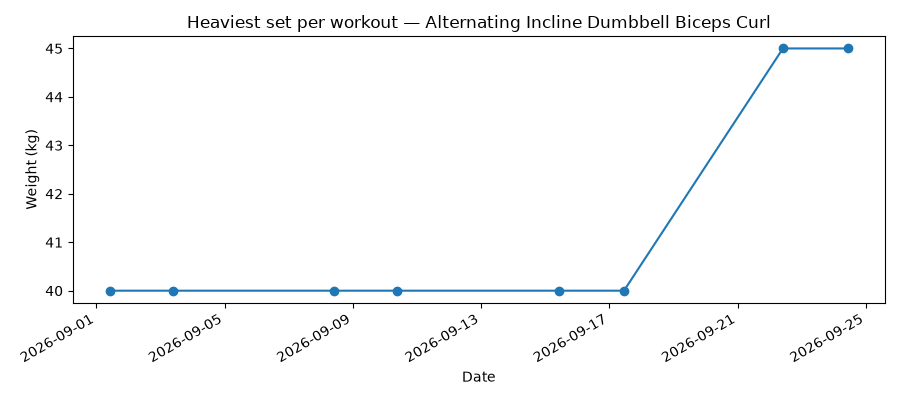
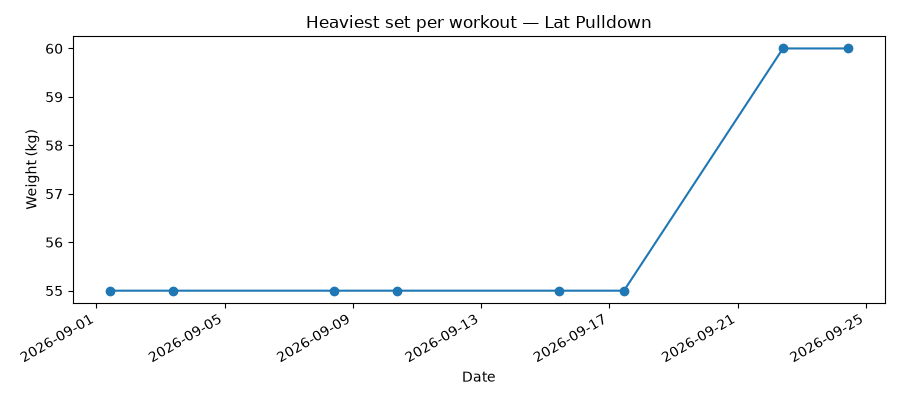
Update the strength-training docs and report script for the corrected exercise names (D53, F107)
The corrected sample database landed in the previous commit; this makes the page and the script
describe it truthfully again, and adds the per-exercise table F107 asked for.

DOCS (docs/strength-training.md)
- Metrics block regenerated. Distinct exercises 14 -> 20, biggest exercise is now Lat Pulldown
  (15,750 kg) rather than Alternating Incline Dumbbell Biceps Curl, an exercise that was never
  performed. The "Sets with no exercise recorded" line is gone because there are none left.
- Adds the per-exercise table: exercise, sets per workout, reps, weight, in the order performed.
  Every session replays the same routine, so these are exact rather than averages.
- "Where the exercise names come from" is rewritten rather than deleted. It was built around
  explaining why 39% of sets had no exercise, which is now zero. The COALESCE fallback is still
  real and still worth explaining, so the section now says the last branch is empty HERE and very
  likely is not in the reader's own data, and points at Curl, Shrug and Push Up as the live
  examples of the middle branch.
- Corrects an overstated claim about locales. The page said the script prints French or German
  exercise names; in fact Garmin's per-exercise subtype names are largely untranslated, and only
  two of the twenty change in French, both category-level. Shows what actually happens instead.
- Extends the closing caveat: Garmin Connect edits not reaching the FIT file applies to the
[…]

diff --git a/reports/strength_training_report.py b/reports/strength_training_report.py
@@ -50,24 +50,27 @@ def load_sets(conn: sqlite3.Connection, locale: str = "en") -> pd.DataFrame:
     """Every set, with its exercise name resolved to readable text.
 
     A SetX row identifies its exercise with two Garmin codes: a category
-    (`raw_category_garmin_key`, e.g. "7") and a more specific subtype
-    (`raw_category_subtype_garmin_key`, e.g. "7 2"). Both are keys into
+    (`raw_category_garmin_key`, e.g. "23") and a more specific subtype
+    (`raw_category_subtype_garmin_key`, e.g. "23 18"). Both are keys into
     better_labels_definitions under the `setx_category` domain, and
     better_labels_lookup turns a definition into text for one locale.
 
-    Prefer the subtype, which names the actual movement ("Alternating Incline
-    Dumbbell Biceps Curl"); fall back to the category ("Curl") when a watch
-    recorded only that; fall back again to "Unspecified" when it recorded
-    neither, which is common for sets logged without an exercise selected.
+    Prefer the subtype, which names the actual movement ("Seated Cable Row");
+    fall back to the category ("Row") when a watch recorded only that — the
+    example database's Curl, Shrug and Push Up sets are exactly that case; fall
+    back again to "Unspecified" when it recorded neither, which happens for sets
+    logged without an exercise selected.
     """
     return pd.read_sql_query(
         """
         SELECT s.file_number,
                s.Timestamp,
+               s.message_index,
                s.Duration          AS duration_s,
                s.Repetitions       AS reps,
                s.Weight            AS weight_kg,
                COALESCE(subtype_label.value, category_label.value, 'Unspecified') AS exercise,
+               s.set_type                                                         AS set_type_id,
                COALESCE(set_type_label.value, 'Unknown')                          AS set_type
         FROM SetX s
         LEFT JOIN better_labels_definitions category_def
@@ -96,18 +99,33 @@ def load_sets(conn: sqlite3.Connection, locale: str = "en") -> pd.DataFrame:
     )
 
 
+# FIT's own set_type enum: 0 is a rest period, 1 is a work set.
+SET_TYPE_ACTIVE = 1
+
+
 def working_sets(sets: pd.DataFrame) -> pd.DataFrame:
-    """Just the sets you lifted in — the rest periods between them are also SetX rows."""
-    return sets[sets["set_type"] == "Active"]
+    """Just the sets you lifted in — the rest periods between them are also SetX rows.
+
+    Filters on the raw FIT enum, not on `set_type`'s display text. The text is
+    translated like every other better_labels value, so matching it against
+    "Active" silently discarded every set under --locale fr ("Actif") or de
+    ("Aktiv"), leaving a report of zero working sets.
+    """
+    return sets[sets["set_type_id"] == SET_TYPE_ACTIVE]
 
 
 def named_sets(sets: pd.DataFrame) -> pd.DataFrame:
     """Sets whose exercise the watch actually recorded.
 
-    A large share of real sets carry no exercise code — the watch counted reps
-    but nothing said what movement they were. Those sets are real work and stay
-    in the totals, but they can't be charted per exercise, so the per-exercise
-    plots use this subset instead.
+    A set can carry no exercise code at all — the watch counted reps, but
+    nothing said what movement they were. Those sets are real work and stay in
+    the totals, but they can't be charted per exercise, so the per-exercise
+    plots and the breakdown table use this subset instead.
+
+    The bundled example database has none of them, so this filter passes
+    everything through there. Your own data very likely does have some: it
+    happens whenever a set is logged without an exercise selected. The
+    "Sets with no exercise recorded" line in the summary tells you how many.
     """
     return sets[sets["exercise"] != "Unspecified"]
 
@@ -148,6 +166,70 @@ def print_summary(sessions: pd.DataFrame, sets: pd.DataFrame, all_sets: pd.DataF
             f"Sets with no exercise recorded: {unnamed} of {len(sets)} ({share:.0f}%)"
             " — counted in the totals above, left out of the per-exercise plots"
         )
+
+
+def exercise_breakdown(sets: pd.DataFrame, n_workouts: int) -> pd.DataFrame:
+    """One row per exercise: how many sets, at what reps, at what weight.
+
+    Ordered by first appearance, so the table reads in the order the workout is
+    actually performed. That is deliberately a different question from the
+    top-exercises plot's "what moved the most weight" — this one answers "what
+    is the routine".
+
+    Order comes from `message_index`, the set's own position in the file, NOT
+    from `Timestamp`: a SetX row's Timestamp is the session's timestamp repeated
+    on every row of that session, so it is identical for all 101 rows and sorts
+    nothing. (`start_time` is the per-set time, if you need a real clock value.)
+
+    Sets are reported per workout rather than as a raw total, since that is the
+    figure you'd compare against a training plan. It is a mean: if you did three
+    sets of an exercise in one workout and four in another, it reads 3.5.
+    """
+    named = named_sets(sets)
+    grouped = named.groupby("exercise")
+    table = pd.DataFrame(
+        {
+            "first_performed": grouped["message_index"].min(),
+            "sets": grouped.size(),
+            "reps_low": grouped["reps"].min(),
+            "reps_high": grouped["reps"].max(),
+            "weight_low": grouped["weight_kg"].min(),
+            "weight_high": grouped["weight_kg"].max(),
+        }
+    ).sort_values("first_performed")
+    table["sets_per_workout"] = table["sets"] / n_workouts
+    return table
+
+
+def _range_text(low: float, high: float, suffix: str = "") -> str:
+    """"10" for a single value, "10-12" for a range — no false precision either way."""
+    if low == high:
+        return f"{low:.0f}{suffix}"
+    return f"{low:.0f}-{high:.0f}{suffix}"
+
+
+def print_exercise_breakdown(sets: pd.DataFrame, sessions: pd.DataFrame) -> None:
+    table = exercise_breakdown(sets, len(sessions))
+    if table.empty:
+        return
+
+    name_width = max(len("Exercise"), *(len(name) for name in table.index))
+    print()
+    print(f"Per exercise, in the order performed, across {len(sessions)} workouts:")
+    print()
+    print(f"  {'Exercise':<{name_width}}  {'Sets/workout':>12}  {'Reps':>7}  Weight")
+    for exercise, row in table.iterrows():
+        per_workout = row["sets_per_workout"]
+        sets_text = f"{per_workout:.0f}" if float(per_workout).is_integer() else f"{per_workout:.1f}"
+        reps_text = _range_text(row["reps_low"], row["reps_high"])
+        # Weight 0 covers both genuine bodyweight work and sets a device records
+        # without a weight at all; the FIT file doesn't distinguish them, so
+        # neither does this.
+        if row["weight_high"] == 0:
+            weight_text = "none recorded"
+        else:
+            weight_text = _range_text(row["weight_low"], row["weight_high"], " kg")
+        print(f"  {exercise:<{name_width}}  {sets_text:>12}  {reps_text:>7}  {weight_text}")
 
 
 def plot_volume_per_session(per_session: pd.DataFrame, out_path: Path) -> None:
@@ -235,6 +317,7 @@ def main() -> None:
         sets = add_volume(working_sets(all_sets))
 
         print_summary(sessions, sets, all_sets)
+        print_exercise_breakdown(sets, sessions)
 
         plot_volume_per_session(volume_per_session(sets, sessions), args.out_dir / "volume_per_session.png")
         plot_top_exercises(sets, args.out_dir / "top_exercises_by_volume.png")

diff --git a/docs/strength-training.md b/docs/strength-training.md
@@ -43,10 +43,46 @@ Total volume:        86,040 kg
 Heaviest set:        60 kg
 Average workout:     51 min
 Average heart rate:  126 bpm
-Distinct exercises:  14
-Biggest exercise:    Alternating Incline Dumbbell Biceps Curl (11,370 kg)
-Sets with no exercise recorded: 160 of 408 (39%) — counted in the totals above, left out of the per-exercise plots
+Distinct exercises:  20
+Biggest exercise:    Lat Pulldown (15,750 kg)
 ```
+
+And the routine itself — every session replays the same one, so these are exact, not averages:
+
+```
+Per exercise, in the order performed, across 8 workouts:
+
+  Exercise                         Sets/workout     Reps  Weight
+  Weighted Crunch                             3     8-11  15-20 kg
+  Curl                                        3    10-11  40-45 kg
+  Shrug                                       3     8-11  15-20 kg
+  Overhead Barbell Press                      3       10  15-20 kg
+  Chest Supported Dumbbell Row                3     9-11  40-45 kg
+  Weighted Leg Extensions                     3       10  20-25 kg
+  Seated Cable Row                            3    10-11  50-55 kg
+  Lat Pulldown                                3    11-12  55-60 kg
+  Elbow To Knee Crunch                        3       10  none recorded
+  Weighted Balancing Squat                    3        9  20-25 kg
+  Stretch Lying It Band                       3     9-11  10-15 kg
+  Glute Bridge                                3     6-11  25-30 kg
+  Chin Up                                     3     9-10  none recorded
+  Push Up                                     4     6-10  none recorded
+  Weighted Standing Hip Abduction             3      6-9  40-45 kg
+  Stretch Shoulder                            1        1  none recorded
+  Hamstring Stretch                           1        1  none recorded
+  Stretch Side                                1        2  none recorded
+  Groiners                                    1        1  none recorded
+  Stretch Forearms                            1        2  none recorded
+```
+
+Three of those carry a category code but no more specific subtype, so they show as the broad
+movement rather than a named variant: **Curl**, **Shrug** and **Push Up**. That's the `COALESCE`
+fallback described below, visible in the output.
+
+"None recorded" is weight 0, which covers two things the FIT file can't tell apart: genuine
+bodyweight work (chin-ups, push-ups, the crunches) and the closing stretches, which Garmin Connect
+displays as "--" rather than "Bodyweight". Weight ranges span a real progressive-overload step —
+the last two sessions add 5 kg to every already-weighted set.
 
 Volume — reps × weight — totalled for each workout:
 
@@ -56,9 +92,9 @@ The exercises that contributed the most of that volume:
 
 ![The eight exercises contributing the most volume](strength-training-top-exercises.png)
 
-And progression for the biggest one, the heaviest set recorded in each workout:
+And progression for the biggest one by volume, the heaviest set recorded in each workout:
 
-![Heaviest set per workout for the alternating incline dumbbell biceps curl](strength-training-progression.png)
+![Heaviest set per workout for the lat pulldown](strength-training-progression.png)
 
 Run it yourself:
 
@@ -73,16 +109,26 @@ A `SetX` row doesn't store "Seated Cable Row". It stores two Garmin codes — a 
 (`raw_category_subtype_garmin_key`, e.g. `23 18`) — and Cordelia's `better_labels_definitions` and
 `better_labels_lookup` tables turn those into readable text. The script joins them with a
 `COALESCE` that prefers the subtype ("Seated Cable Row"), falls back to the category ("Row"), and
-falls back again to "Unspecified" when a set carries neither code, which is why 39% of the example
-sets land in that last bucket. That's realistic: a watch counts reps whether or not anyone told it
-what movement was being performed. Those sets still count toward the totals; they just can't be
-charted per exercise.
+falls back again to "Unspecified" when a set carries neither code.
 
-Those labels exist in six locales, so the same script prints French or German exercise names with
-one flag:
+Every set in this example database carries a code, so nothing lands in that last bucket here. Your
+own data probably will: a watch counts reps whether or not anyone told it what movement was being
+performed, and a set logged without an exercise selected has nothing to name it. Those sets are
+real work and stay in the totals — the summary prints a "Sets with no exercise recorded" line
+whenever there are any — they just can't be charted or listed per exercise.
+
+The middle branch of that `COALESCE` is visible in the table above: **Curl**, **Shrug** and
+**Push Up** carry a category code and no subtype, so they read as the broad movement. Everything
+else in the example resolves to a specific named variant.
+
+Those labels exist in six locales, though that mostly buys you the *category* names — Garmin's
+per-exercise subtype names are largely untranslated in the source data. Of the twenty exercises
+above, only two change in French — both of them category-level, and French keeps "Curl" as-is:
 
 ```bash
 python3 reports/strength_training_report.py --locale fr
+# Shrug   ->  Haussement d'épaules
+# Push Up ->  Pompe
 ```
 
 ## Using your own data
@@ -97,9 +143,12 @@ python3 reports/strength_training_report.py --db path/to/your.sqlite
 By default, plots are written to `reports/output/strength-training/`; pass `--out-dir` to write
 them somewhere else.
 
-One thing to know before you read too much into your own numbers: if you edit a set's weight in
-Garmin Connect after a workout, that edit stays in Garmin Connect. It never propagates back into
-the FIT file, so `SetX.Weight` here is whatever the watch recorded at the time.
+One thing to know before you read too much into your own numbers: edits you make in Garmin Connect
+after a workout stay in Garmin Connect. They never propagate back into the FIT file. That applies
+to a set's weight — so `SetX.Weight` is whatever the watch recorded at the time — and it applies
+just as much to the **exercise name**. If you corrected an exercise in Connect after the session,
+the file still holds whatever the watch guessed, and that is what these reports will name. Connect
+showing one thing and this script showing another is expected, not a bug in either.
 
 ---
 
